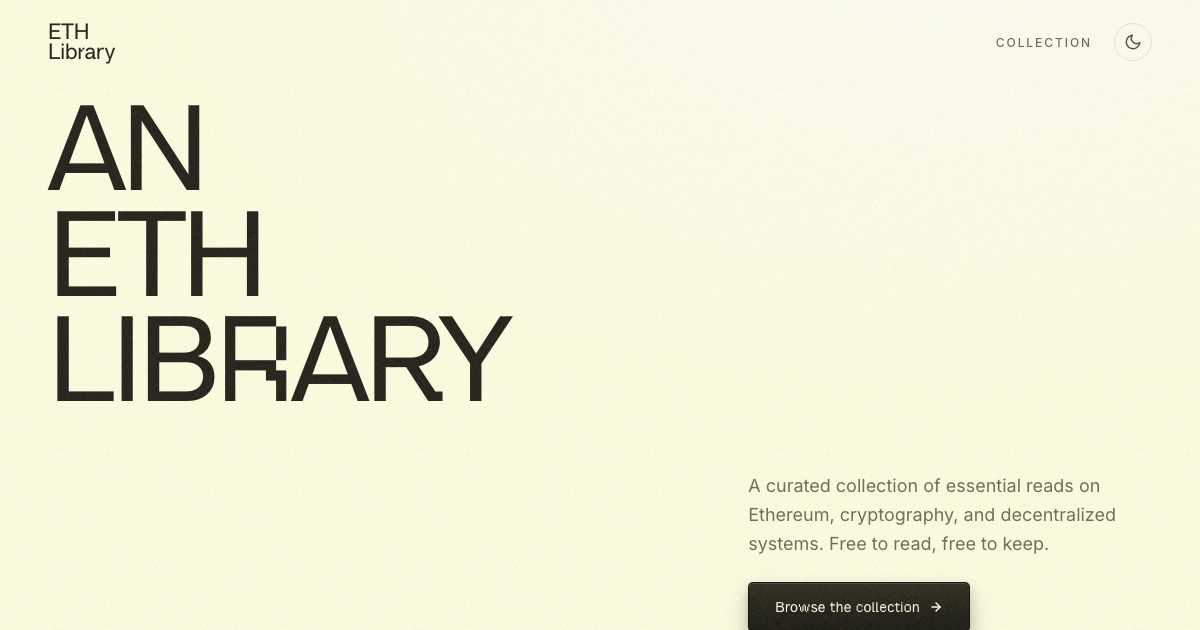
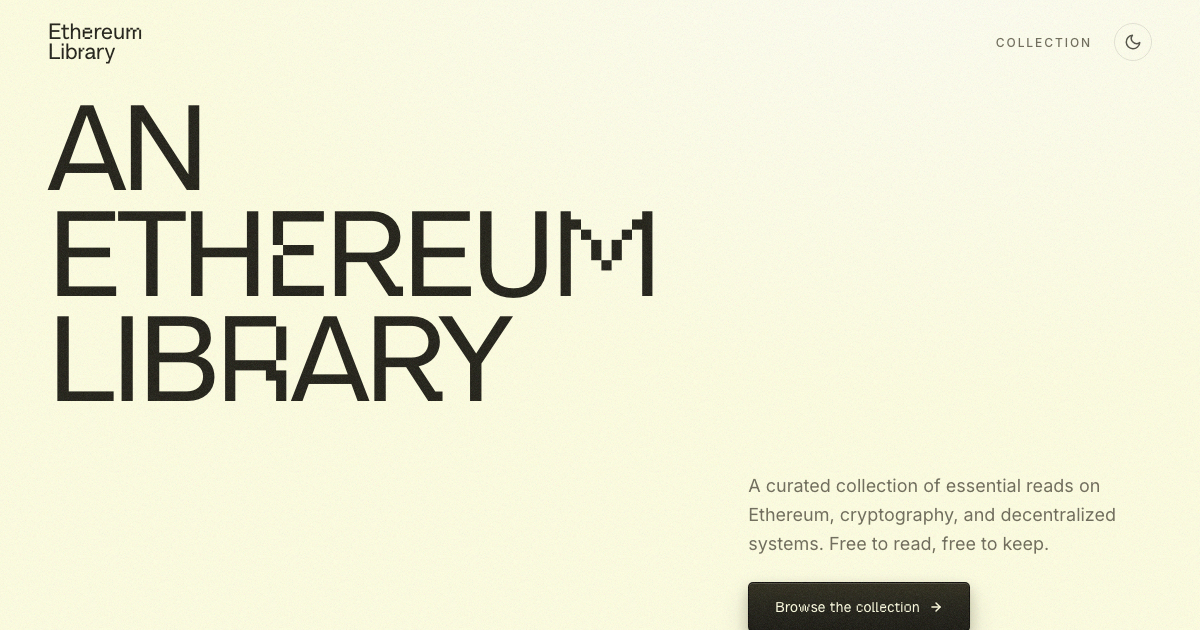
Revert branding to Ethereum Library
ETH was unclear to newcomers. Restore nav logo, hero, and og-image to
'Ethereum Library' / 'An Ethereum Library', and set the social card
site name to 'An Ethereum Library'.

Changed region(s): [[0.2158, 0.3317, 0.555, 0.4825], [0.0308, 0.0302, 0.1233, 0.0603]]

diff --git a/index.html b/index.html
@@ -12,7 +12,7 @@
 
   <!-- Open Graph -->
   <meta property="og:type" content="website">
-  <meta property="og:site_name" content="ETH Library">
+  <meta property="og:site_name" content="An Ethereum Library">
   <meta property="og:url" content="https://www.ethlibrary.org/">
   <meta property="og:title" content="A Free Cypherpunk &amp; Ethereum Reading List">
   <meta property="og:description" content="A curated, free reading list for Ethereum, cryptography, and decentralized systems. Every book links to a free or public source.">
@@ -30,7 +30,7 @@
   {
     "@context": "https://schema.org",
     "@type": "CollectionPage",
-    "name": "ETH Library",
+    "name": "An Ethereum Library",
     "url": "https://www.ethlibrary.org/",
     "description": "A curated, free reading list for Ethereum, cryptography, and decentralized systems. Every book links to a free or public source.",
     "inLanguage": "en",
@@ -736,7 +736,7 @@
   <!-- Nav -->
   <nav class="nav">
     <a href="#" class="nav-logo" onclick="showHome();return false;">
-      <span>ETH</span><span>Library</span>
+      <span>Ethereum</span><span>Library</span>
     </a>
     <div class="nav-right">
       <button class="nav-link" onclick="showCollection()">Collection</button>
@@ -752,7 +752,7 @@
     <section class="hero">
       <h1 class="hero-title">
         <span class="hero-line">An</span>
-        <span class="hero-line">ETH</span>
+        <span class="hero-line">Ethereum</span>
         <span class="hero-line">Library</span>
       </h1>
       <div class="hero-aside">